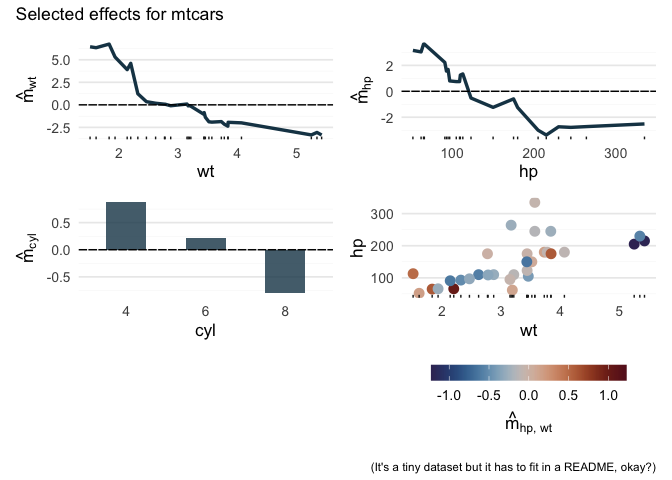
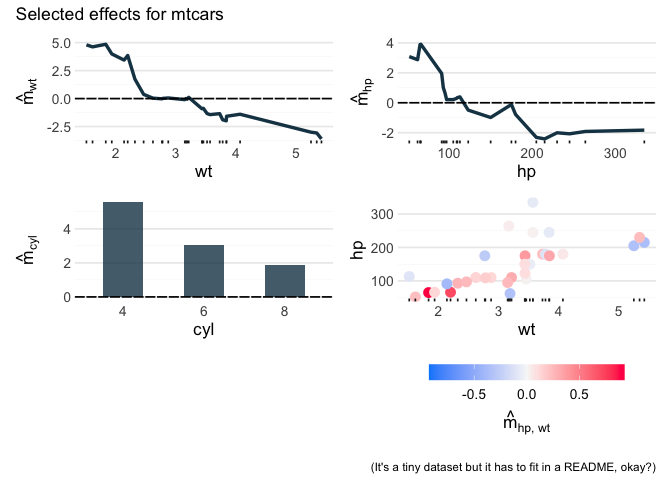
chore: rerender README.Rmd

diff --git a/README.md b/README.md
@@ -49,29 +49,33 @@ rpfit
 #> 
 #> Called with parameters:
 #> 
-#>             loss: L2
-#>           ntrees: 25
-#>  max_interaction: 2
-#>           splits: 30
-#>        split_try: 10
-#>            t_try: 0.4
-#>            delta: 0
-#>          epsilon: 0.1
-#>    deterministic: FALSE
-#>         nthreads: 1
-#>           purify: FALSE
-#>               cv: FALSE
+#>              loss: L2
+#>            ntrees: 25
+#>   max_interaction: 2
+#>            splits: 30
+#>         split_try: 10
+#>             t_try: 0.4
+#>  split_decay_rate: 0.1
+#>    max_candidates: 50
+#>     delete_leaves: TRUE
+#>   split_structure: leaves
+#>             delta: 0.001
+#>           epsilon: 0.1
+#>     deterministic: FALSE
+#>          nthreads: 1
+#>            purify: FALSE
+#>                cv: FALSE
 
 predict(rpfit, new_data = mtcars) |>
   cbind(mpg = mtcars$mpg) |>
   head()
 #>      .pred  mpg
-#> 1 20.96451 21.0
-#> 2 21.06539 21.0
-#> 3 23.24140 22.8
-#> 4 21.17155 21.4
-#> 5 18.22740 18.7
-#> 6 18.76736 18.1
+#> 1 20.56781 21.0
+#> 2 20.57981 21.0
+#> 3 25.36640 22.8
+#> 4 20.86060 21.4
+#> 5 18.25741 18.7
+#> 6 19.01166 18.1
 ```
 
 Prediction components can be accessed via `predict_components`,
@@ -86,19 +90,19 @@ components <- predict_components(rpfit, new_data = mtcars)
 str(components)
 #> List of 3
 #>  $ m        :Classes 'data.table' and 'data.frame':  32 obs. of  6 variables:
-#>   ..$ cyl   : num [1:32] 0.224 0.224 0.873 0.224 -0.803 ...
-#>   ..$ wt    : num [1:32] 0.177 -0.102 1.229 -0.154 -0.863 ...
-#>   ..$ hp    : num [1:32] 1.253 1.253 1.559 1.253 -0.586 ...
-#>   ..$ cyl:wt: num [1:32] -0.0516 0.0326 -0.0978 0.0279 0.1207 ...
-#>   ..$ cyl:hp: num [1:32] -0.0549 -0.0549 0.1872 -0.0549 0.3816 ...
-#>   ..$ hp:wt : num [1:32] -0.5891 -0.2933 -0.5148 -0.1305 -0.0282 ...
-#>   ..- attr(*, ".internal.selfref")=<externalptr> 
-#>  $ intercept: num 20
+#>   ..$ cyl   : num [1:32] 3.08 3.08 5.56 3.08 1.87 ...
+#>   ..$ wt    : num [1:32] 0.0384 0.0552 1.736 0.1104 -0.876 ...
+#>   ..$ hp    : num [1:32] 0.346 0.346 1.005 0.346 -0.117 ...
+#>   ..$ cyl:wt: num [1:32] 0.1382 0.1483 0.3898 0.1932 0.0373 ...
+#>   ..$ cyl:hp: num [1:32] -0.0284 -0.0284 -0.4527 -0.0284 0.1046 ...
+#>   ..$ hp:wt : num [1:32] 0.137 0.122 0.267 0.303 0.381 ...
+#>   ..- attr(*, ".internal.selfref")=<pointer: 0x101551630> 
+#>  $ intercept: num 16.9
 #>  $ x        :Classes 'data.table' and 'data.frame':  32 obs. of  3 variables:
 #>   ..$ cyl: Factor w/ 3 levels "4","6","8": 2 2 1 2 3 2 3 1 1 2 ...
 #>   ..$ wt : num [1:32] 2.62 2.88 2.32 3.21 3.44 ...
 #>   ..$ hp : num [1:32] 110 110 93 110 175 105 245 62 95 123 ...
-#>   ..- attr(*, ".internal.selfref")=<externalptr> 
+#>   ..- attr(*, ".internal.selfref")=<pointer: 0x101551630> 
 #>  - attr(*, "class")= chr [1:3] "glex" "rpf_components" "list"
 ```
 
@@ -125,7 +129,7 @@ p4 <- autoplot(components, c("wt", "hp"))
   )
 ```
 
-<img src="man/figures/README-unnamed-chunk-4-1.png" width="100%" />
+<img src="man/figures/README-unnamed-chunk-4-1.png" alt="" width="100%" />
 
 See the [Bikesharing
 decomposition](https://plantedml.com/glex/articles/Bikesharing-Decomposition-rpf.html)
